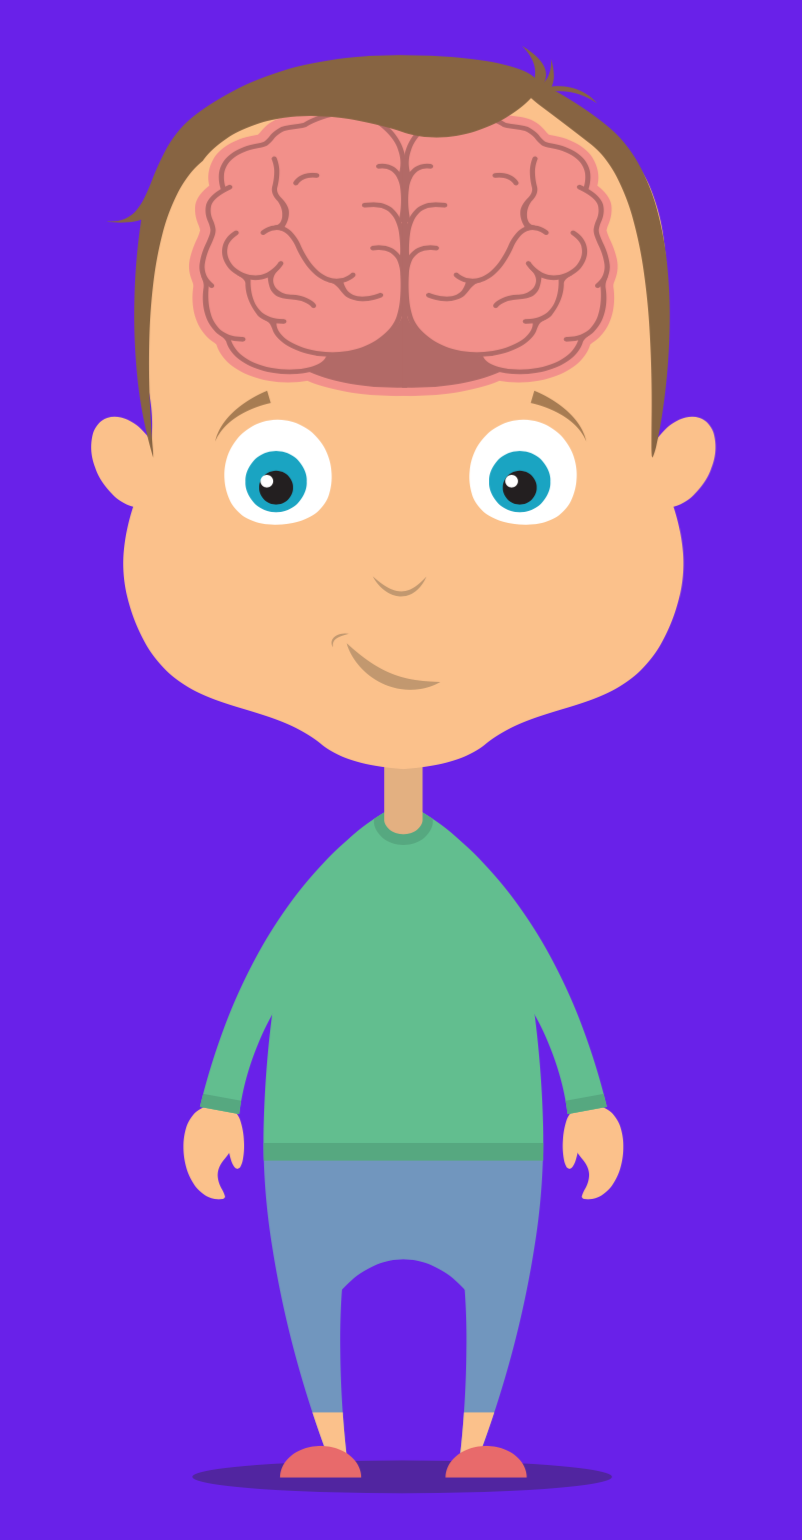
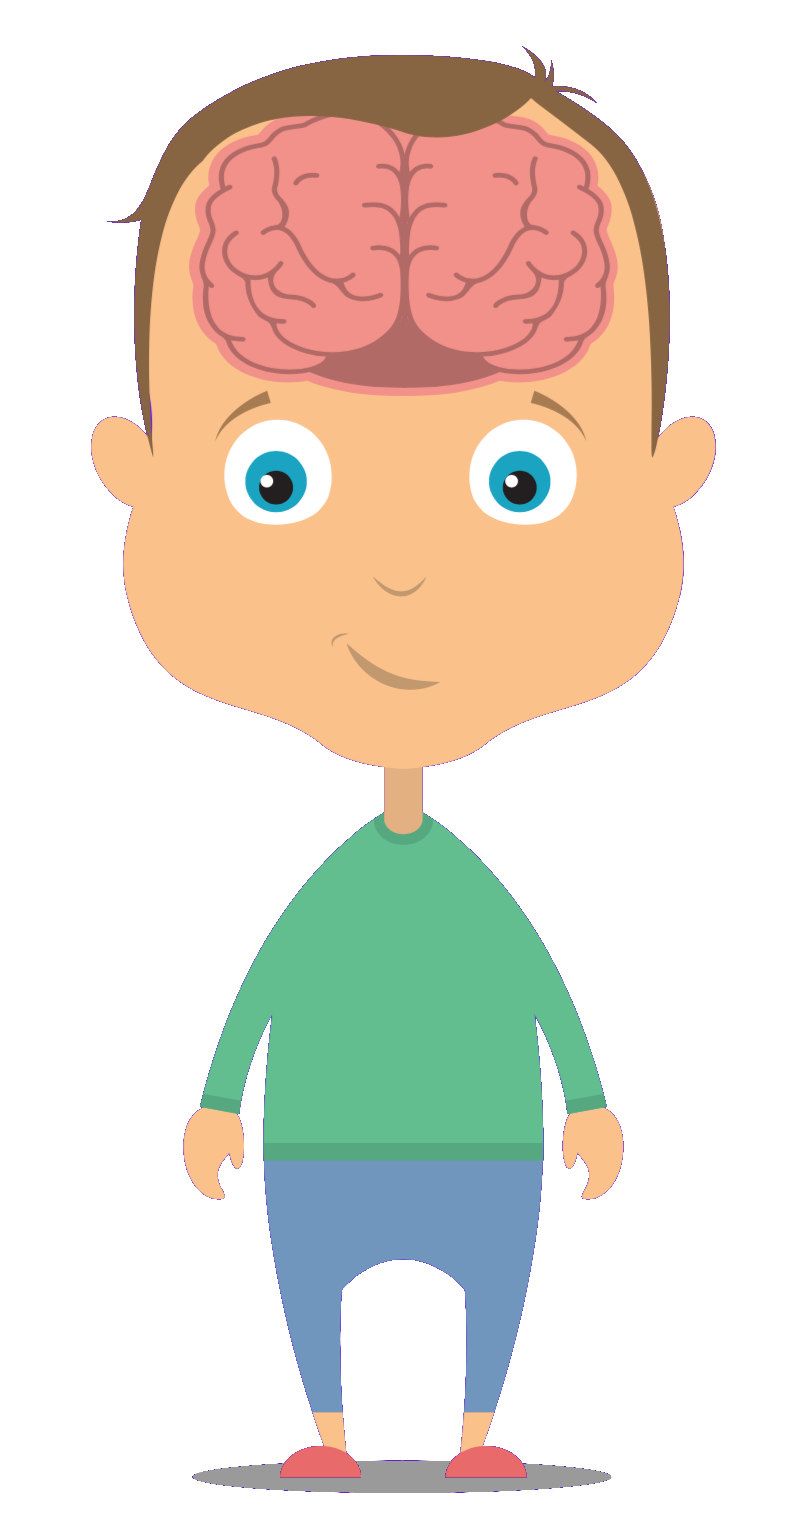
Improve MainMenu component

diff --git a/mobileClient/components/MainMenu.js b/mobileClient/components/MainMenu.js
@@ -4,13 +4,26 @@ import { compose, graphql, withApollo } from 'react-apollo'
 import gql from 'graphql-tag'
 import update from 'immutability-helper'
 
-import { Animated, Text, View, TouchableHighlight } from 'react-native'
+import { Animated, Dimensions, Image, Text, View, TouchableHighlight } from 'react-native'
 import { FBLoginManager } from 'react-native-facebook-login'
+
+import Separator from './Separator'
 
 import styles from '../styles/styles'
 import appStyle from '../styles/appStyle'
 
 import currentUserQuery from '../../client/shared/graphql/queries/currentUser'
+
+const MenuButton = (props) => (
+  <TouchableHighlight
+    onPress={props.onPress}
+    activeOpacity={1}
+    underlayColor='#fff'
+    style={styles.menuButton}
+  >
+    <Text style={styles.menuButtonText}>{props.text}</Text>
+  </TouchableHighlight>
+)
 
 class MainMenu extends React.Component {
   state = {
@@ -39,20 +52,8 @@ class MainMenu extends React.Component {
       })
   }
 
-  goLogin = () => {
-    this.props.history.push('/login')
-  }
-
-  goQuestions = () => {
-    this.props.history.push('/questions')
-  }
-
-  goCongratulations = () => {
-    this.props.history.push('/congratulations')
-  }
-
-  goSignup = () => {
-    this.props.history.push('/signup')
+  go = (path) => () => {
+    this.props.history.push(path)
   }
 
   render () {
@@ -64,50 +65,53 @@ class MainMenu extends React.Component {
     const currentUser = this.props.data.CurrentUser
     const activated = currentUser && currentUser.activated
 
+    const height = Dimensions.get('window').height - this.props.topMargin
+
     return (
-      <Animated.View style={[styles.headerWithShadow, styles.menuOverlay, { opacity: fadeAnim, top: this.props.topMargin }]}>
-        {activated
-          ? <TouchableHighlight
-            onPress={this.logout}
-            activeOpacity={1}
-            underlayColor='#62c46caa'
-            style={styles.menuButton}
-            >
-            <Text style={styles.menuButtonText}>Logout</Text>
-          </TouchableHighlight>
-          : <TouchableHighlight
-            onPress={this.goLogin}
-            activeOpacity={1}
-            underlayColor='#62c46caa'
-            style={styles.menuButton}
-          >
-            <Text style={styles.menuButtonText}>Login</Text>
-          </TouchableHighlight>
-        }
-        <TouchableHighlight
-          onPress={this.goQuestions}
-          activeOpacity={1}
-          underlayColor='#62c46caa'
-          style={styles.menuButton}
-        >
-          <Text style={styles.menuButtonText}>Questions</Text>
-        </TouchableHighlight>
-        <TouchableHighlight
-          onPress={this.goCongratulations}
-          activeOpacity={1}
-          underlayColor='#62c46caa'
-          style={styles.menuButton}
-        >
-          <Text style={styles.menuButtonText}>Congratulations</Text>
-        </TouchableHighlight>
-        <TouchableHighlight
-          onPress={this.goSignup}
-          activeOpacity={1}
-          underlayColor='#62c46caa'
-          style={styles.menuButton}
-        >
-          <Text style={styles.menuButtonText}>Sign up</Text>
-        </TouchableHighlight>
+      <Animated.View style={[styles.headerWithShadow, styles.menuOverlay, { opacity: fadeAnim, top: this.props.topMargin, height }]}>
+        <View style={{
+          flexDirection: 'row',
+          width: '100%',
+          height: '40%',
+          padding: 20
+        }}>
+          <Image
+            style={{ width: '30%', height: '100%' }}
+            source={require('../images/BillyBaby.png')}
+          />
+          <View style={{
+            width: '70%',
+            padding: 20
+          }}>
+            <Text style={[styles.textDefault, { fontSize: 26, color: '#6905ea' }]}>
+              Michał
+            </Text>
+          </View>
+        </View>
+        <View style={{ backgroundColor: '#eee', paddingHorizontal: 20, paddingVertical: 5 }}>
+          {activated
+            ? <MenuButton text="LOG OUT" onPress={this.logout} />
+            : <MenuButton text="LOG IN" onPress={this.goLogin} />
+          }
+          <Separator />
+          <MenuButton text="LECTURES LIST" onPress={this.go('/lectures')} />
+          <Separator />
+          <MenuButton text="REVIEWS CALENDAR" onPress={this.go('/calendar')} />
+          <Separator />
+          <MenuButton text="CHANGE THE COURSE" onPress={this.go('/')} />
+          <Separator />
+          <MenuButton text="ACHIEVEMENTS LIST" onPress={this.go('/achievements')} />
+          <Separator />
+          <MenuButton text="PROFILE" onPress={this.go('/profile')} />
+          <Separator />
+          <MenuButton text="CONTACT" onPress={this.go('/contact')} />
+          {/*<Separator />*/}
+          {/*<MenuButton text="QUESTIONS" onPress={this.go('/questions')} />*/}
+          {/*<Separator />*/}
+          {/*<MenuButton text="CONGRATULATIONS" onPress={this.go('/congratulations')} />*/}
+          {/*<Separator />*/}
+          {/*<MenuButton text="SIGN UP" onPress={this.go('/signup')} />*/}
+        </View>
       </Animated.View>
     )
   }

diff --git a/mobileClient/styles/styles.js b/mobileClient/styles/styles.js
@@ -113,16 +113,17 @@ const styles = StyleSheet.create({
     top: appStyle.header.height,
     width: '100%',
     position: 'absolute',
-    backgroundColor: '#68b888ee'
+    backgroundColor: 'white'
   },
   menuButton: {
     borderColor: '#fff5',
     borderBottomWidth: 1
   },
   menuButtonText: {
-    textAlign: 'center',
-    padding: 15,
-    color: 'white',
+    paddingHorizontal: 30,
+    paddingVertical: 10,
+    color: '#999',
+    fontSize: 18,
     fontFamily: 'Exo2-Bold'
   },
   header: {
